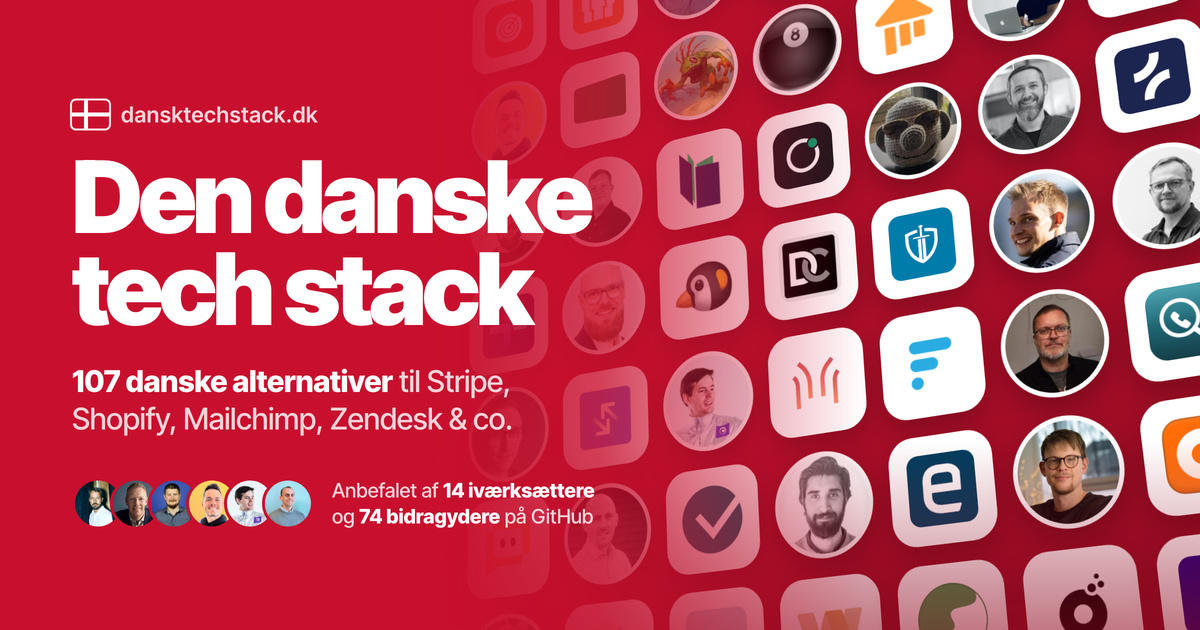
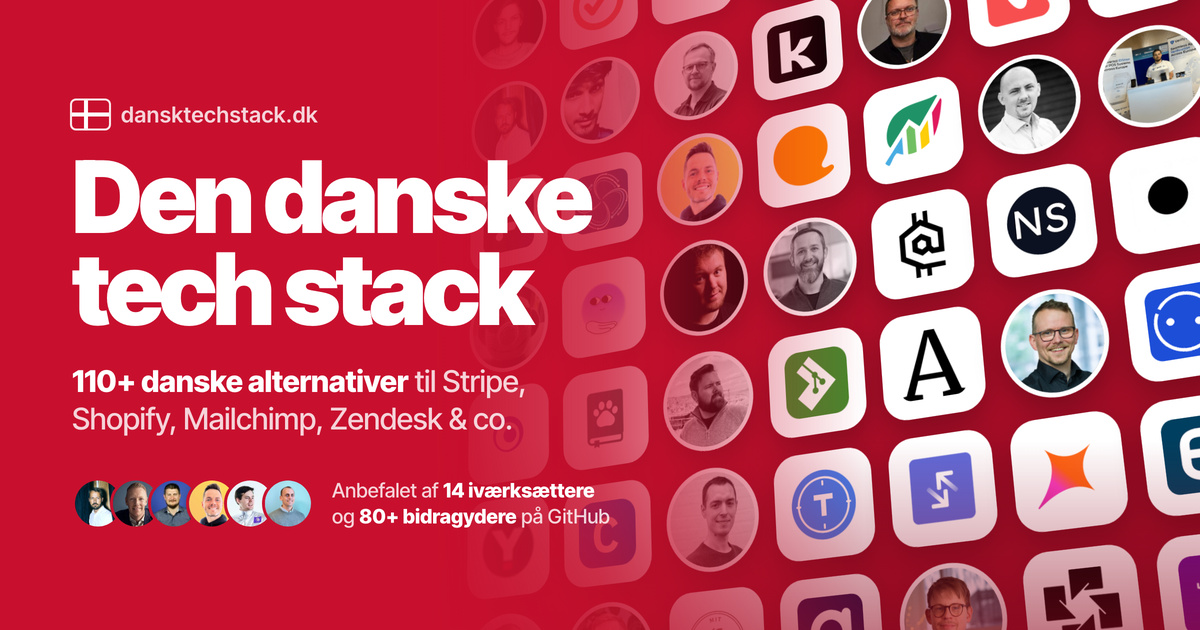
OG-billede: afrundede tal og versions-hash i og:image (#126)
- Tallene i OG-billedet rundes ned til nærmeste 10 ("110+ danske
  alternativer", "80+ bidragydere"), så billedet ikke bliver forkert,
  når der kommer nye produkter. Det live billede sagde 107, mens siden
  havde 118.
- og:image/twitter:image/schema bruger /og-image.jpg?v=<hash>, så
  LinkedIn, Facebook m.fl. henter billedet igen, når det opdateres
- build.py finder Chrome via CHROME-miljøvariabel eller PATH (ikke kun macOS)
- Billedet er genbygget med de nye produkter og bidragydere

diff --git a/scripts/og-image/build.py b/scripts/og-image/build.py
@@ -6,7 +6,8 @@ Billedet er en mosaik af iværksætterne bag projektet, GitHub-bidragydere
 og logoer fra products.json. Kør igen når der er kommet nye produkter
 eller bidragydere, så tallene og ansigterne er opdaterede.
 
-Kræver: Python 3, Pillow (pip install pillow) og Google Chrome.
+Kræver: Python 3, Pillow (pip install pillow) og Google Chrome (eller CHROME=/sti/til/chrome).
+Tallene rundes ned til nærmeste 10 ("110+"), så billedet ikke bliver forkert, når listen vokser.
 
     python3 scripts/og-image/build.py            # rød variant (default)
     python3 scripts/og-image/build.py --theme dark
@@ -15,8 +16,10 @@ import argparse
 import hashlib
 import io
 import json
+import os
 import random
 import re
+import shutil
 import subprocess
 import urllib.parse
 import urllib.request
@@ -28,7 +31,10 @@ HERE = Path(__file__).resolve().parent
 ROOT = HERE.parent.parent
 CACHE = HERE / ".cache"
 REPO = "Boligforeningsweb/dansk-tech"
-CHROME = "/Applications/Google Chrome.app/Contents/MacOS/Google Chrome"
+CHROME = os.environ.get("CHROME") or next(
+    (p for p in ["/Applications/Google Chrome.app/Contents/MacOS/Google Chrome",
+                 shutil.which("google-chrome") or "", shutil.which("chromium") or ""] if p and Path(p).exists()),
+    "google-chrome")
 
 
 def fetch(url):
@@ -94,6 +100,11 @@ def logos(products):
     return result
 
 
+def at_least(n):
+    # Rundet ned til nærmeste 10 med "+", så tallet ikke bliver forkert, når listen vokser
+    return f"{n // 10 * 10}+" if n >= 20 else str(n)
+
+
 def main():
     ap = argparse.ArgumentParser()
     ap.add_argument("--theme", choices=["red", "dark"], default="red")
@@ -121,9 +132,9 @@ def main():
             .replace("{{THEME}}", args.theme)
             .replace("{{TILES}}", tile_html)
             .replace("{{STACK}}", stack_html)
-            .replace("{{PRODUCTS}}", str(len(products)))
+            .replace("{{PRODUCTS}}", at_least(len(products)))
             .replace("{{BACKERS}}", str(len(backer_faces)))
-            .replace("{{CONTRIBUTORS}}", str(contributor_count)))
+            .replace("{{CONTRIBUTORS}}", at_least(contributor_count)))
     page = CACHE / "og.html"
     page.write_text(html)
 

diff --git a/pages/home.php b/pages/home.php
@@ -9,8 +9,9 @@ $productCount = count($products);
 $title = "Den danske tech stack – $productCount danske alternativer til Big Tech";
 $description = "Find danske alternativer til Stripe, Shopify, Mailchimp, Zendesk og andre udenlandske systemer. $productCount danske SaaS-produkter, anbefalet af danske iværksættere.";
 $socialDescription = "Betalinger, e-mail, support, regnskab, monitoring og meget mere – bygget i Danmark. Find danske alternativer til de udenlandske giganter.";
-$ogImage = SITE_URL . 'og-image.jpg';
-$ogImageAlt = "Den danske tech stack: $productCount danske alternativer til Stripe, Shopify, Mailchimp, Zendesk og co.";
+// Versions-hash i URL'en, så LinkedIn m.fl. henter billedet igen, når det opdateres
+$ogImage = SITE_URL . ltrim(asset_url('og-image.jpg'), '/');
+$ogImageAlt = "Den danske tech stack: " . at_least($productCount) . " danske alternativer til Stripe, Shopify, Mailchimp, Zendesk og co.";
 
 // Schema.org JSON-LD, built from the same data as the page
 $faq = [

diff --git a/lib/bootstrap.php b/lib/bootstrap.php
@@ -46,6 +46,11 @@ function asset_url($file) {
   return '/' . $file . '?v=' . $version;
 }
 
+// Rundet ned til nærmeste 10 med "+" (samme som i OG-billedet)
+function at_least($n) {
+  return $n >= 20 ? (intdiv($n, 10) * 10) . '+' : (string) $n;
+}
+
 function redirect($location, $status = 301) {
   header('Location: ' . $location, true, $status);
   exit;
